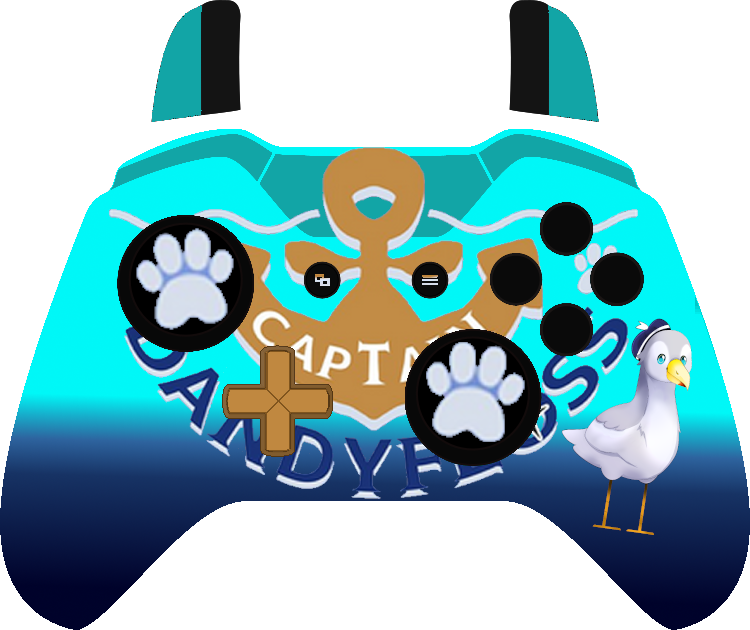
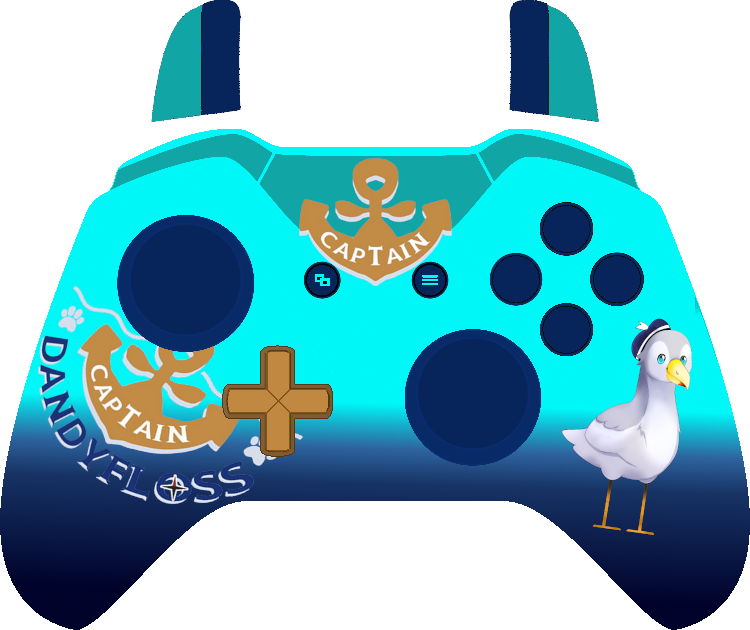
Updating graphics as per "client" request

Changed region(s): [[0.0307, 0.2111, 0.8587, 0.8143], [0.2453, 0.0, 0.3373, 0.181], [0.6747, 0.0, 0.736, 0.181]]

diff --git a/DandyCon/dandy_controller.css b/DandyCon/dandy_controller.css
@@ -3,5 +3,5 @@
 }
 
 .edit .stick {
-  background: url(https://zlyfire.github.io/DandyCon/dandyCustomXboxStick.png);
+  background: url(https://zlyfire.github.io/DandyCon/stick.png);
 }
